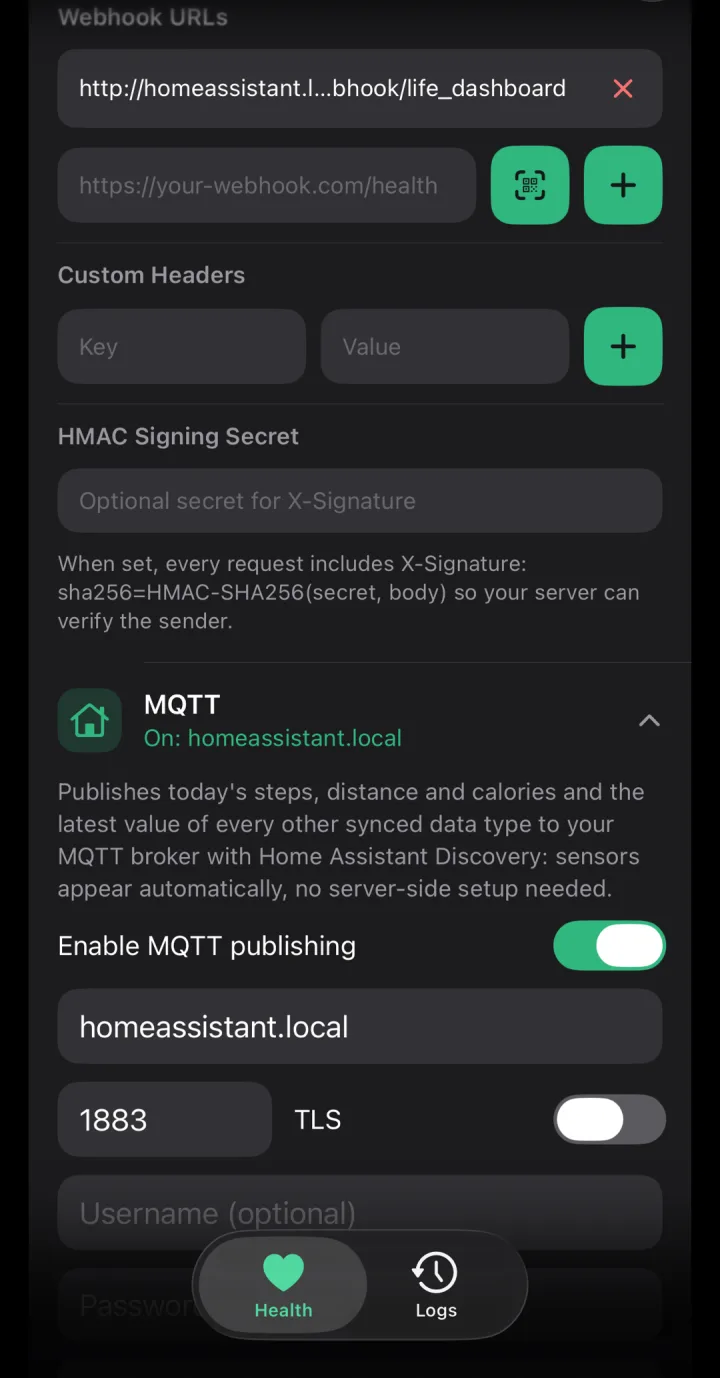
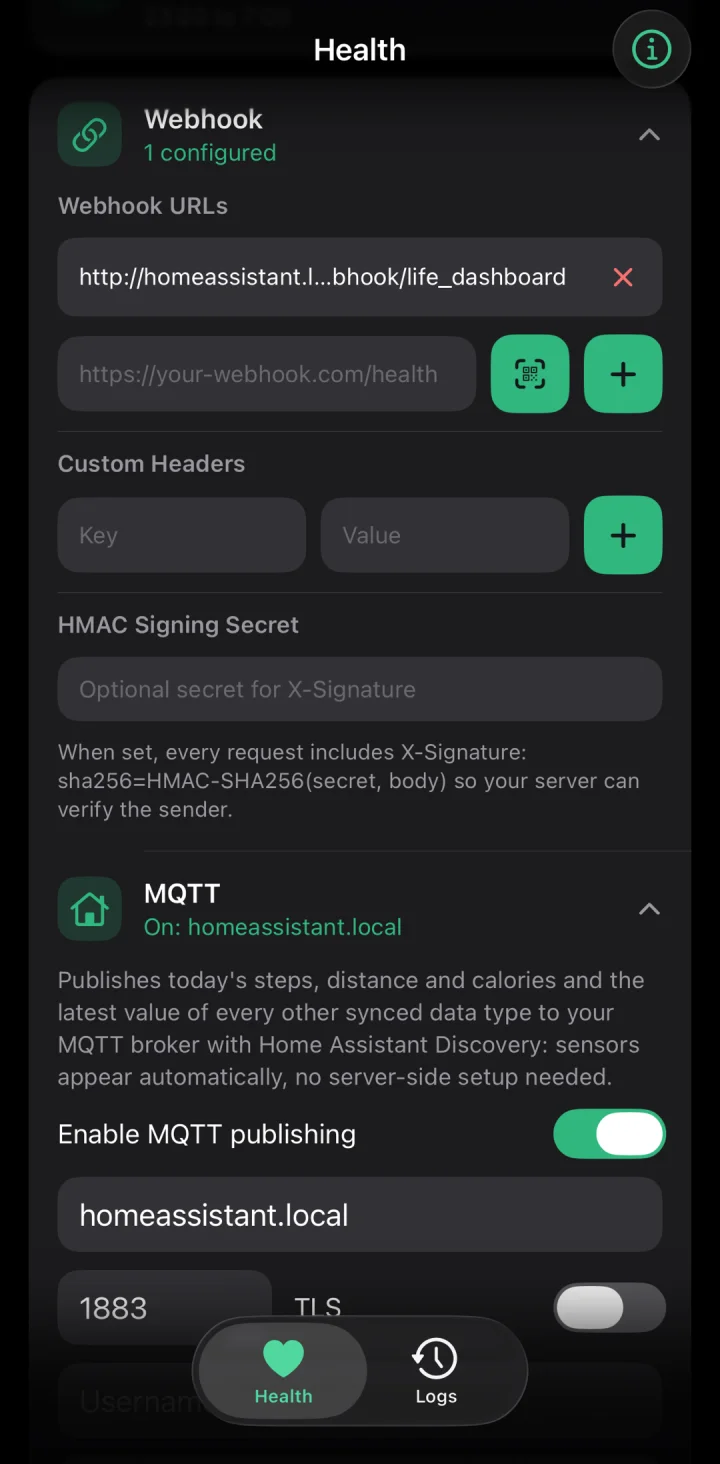
feat: The iPhone page opens on the app next to the Home Assistant cards it feeds, with fresh screenshots (#18)

diff --git a/site/life-dashboard/ios/index.html b/site/life-dashboard/ios/index.html
@@ -243,8 +243,8 @@
       </div>
       <p class="fineprint"><span class="soon-tag">App Store: coming</span> · <span class="soon-tag">TestFlight: coming</span></p>
     </div>
-    <div class="product-visual">
-      <div class="phone hero-shot" style="aspect-ratio: 720 / 1464"><img src="../img/ios-health.webp" alt="The Health tab of the iPhone app with Apple Health types" width="720" height="1464" fetchpriority="high"></div>
+    <div class="product-visual is-wide">
+      <div class="wide-shot hero-shot"><div class="wide-bar"><i></i><i></i><i></i></div><a class="shot-link" href="../img/ios-hero.webp" aria-label="The Health tab of the iPhone app next to the Home Assistant cards it feeds: steps, distance, heart rate, last sleep, and charts of steps per week and heart rate per day, full size"><img src="../img/ios-hero.webp" alt="The Health tab of the iPhone app next to the Home Assistant cards it feeds: steps, distance, heart rate, last sleep, and charts of steps per week and heart rate per day" width="1400" height="778" fetchpriority="high"></a></div>
     </div>
   </div>
 </section>
@@ -266,7 +266,7 @@
 <section class="section">
   <div class="wrap">
     <div class="show" id="home-assistant-and-mqtt">
-      <div class="show-media"><div class="stage green-glow"></div><div class="phone solo" style="aspect-ratio: 720 / 1378"><img src="../img/ios-mqtt.webp" alt="Webhook and MQTT settings in the iPhone app" width="720" height="1378" loading="lazy"></div></div>
+      <div class="show-media"><div class="stage green-glow"></div><div class="phone solo" style="aspect-ratio: 720 / 1464"><img src="../img/ios-mqtt.webp" alt="Webhook and MQTT settings in the iPhone app" width="720" height="1464" loading="lazy"></div></div>
       <div>
         <div class="kicker">Home Assistant and MQTT</div>
         <h2>Apple Health in Home Assistant, by QR&nbsp;code or over MQTT</h2>
@@ -294,7 +294,7 @@
         <a class="link-arrow" href="../health-connect-webhook/">The payload both apps send</a>
       </div>
     </div><div class="show" id="background-sync">
-      <div class="show-media"><div class="stage green-glow"></div><div class="phone solo" style="aspect-ratio: 720 / 1378"><img src="../img/ios-schedule.webp" alt="The sync schedule of the iPhone app at fixed times with quiet hours" width="720" height="1378" loading="lazy"></div></div>
+      <div class="show-media"><div class="stage green-glow"></div><div class="phone solo" style="aspect-ratio: 720 / 1464"><img src="../img/ios-schedule.webp" alt="The sync schedule of the iPhone app at fixed times with quiet hours" width="720" height="1464" loading="lazy"></div></div>
       <div>
         <div class="kicker">Background sync</div>
         <h2>Runs in the background, within what iOS allows</h2>

diff --git a/tools/site/build.py b/tools/site/build.py
@@ -209,10 +209,11 @@ IMAGES = {
     "H3-history": ("phone", 720, 1598, "History graphs in Home Assistant on a phone"),
     "H4-apps": ("phone", 720, 1598, "Screen time per app in Home Assistant on a phone"),
     "H5-today": ("phone", 720, 1052, "Today's steps, distance, calories, heart rate and last sleep in Home Assistant, with steps per week"),
+    "ios-hero": ("wide", 1400, 778, "The Health tab of the iPhone app next to the Home Assistant cards it feeds: steps, distance, heart rate, last sleep, and charts of steps per week and heart rate per day"),
     "ios-health": ("phone", 720, 1464, "The Health tab of the iPhone app with Apple Health types"),
-    "ios-schedule": ("phone", 720, 1378, "The sync schedule of the iPhone app at fixed times with quiet hours"),
+    "ios-schedule": ("phone", 720, 1464, "The sync schedule of the iPhone app at fixed times with quiet hours"),
     "ios-logs": ("phone", 720, 1464, "The sync history of the iPhone app"),
-    "ios-mqtt": ("phone", 720, 1378, "Webhook and MQTT settings in the iPhone app"),
+    "ios-mqtt": ("phone", 720, 1464, "Webhook and MQTT settings in the iPhone app"),
     "g-overview": ("wide", 1400, 728, "The overview dashboard of the Grafana stack with demo data"),
     "g-activity": ("wide", 1400, 1260, "The activity dashboard of the Grafana stack"),
     "g-sleep": ("wide", 1400, 895, "The sleep dashboard of the Grafana stack"),
